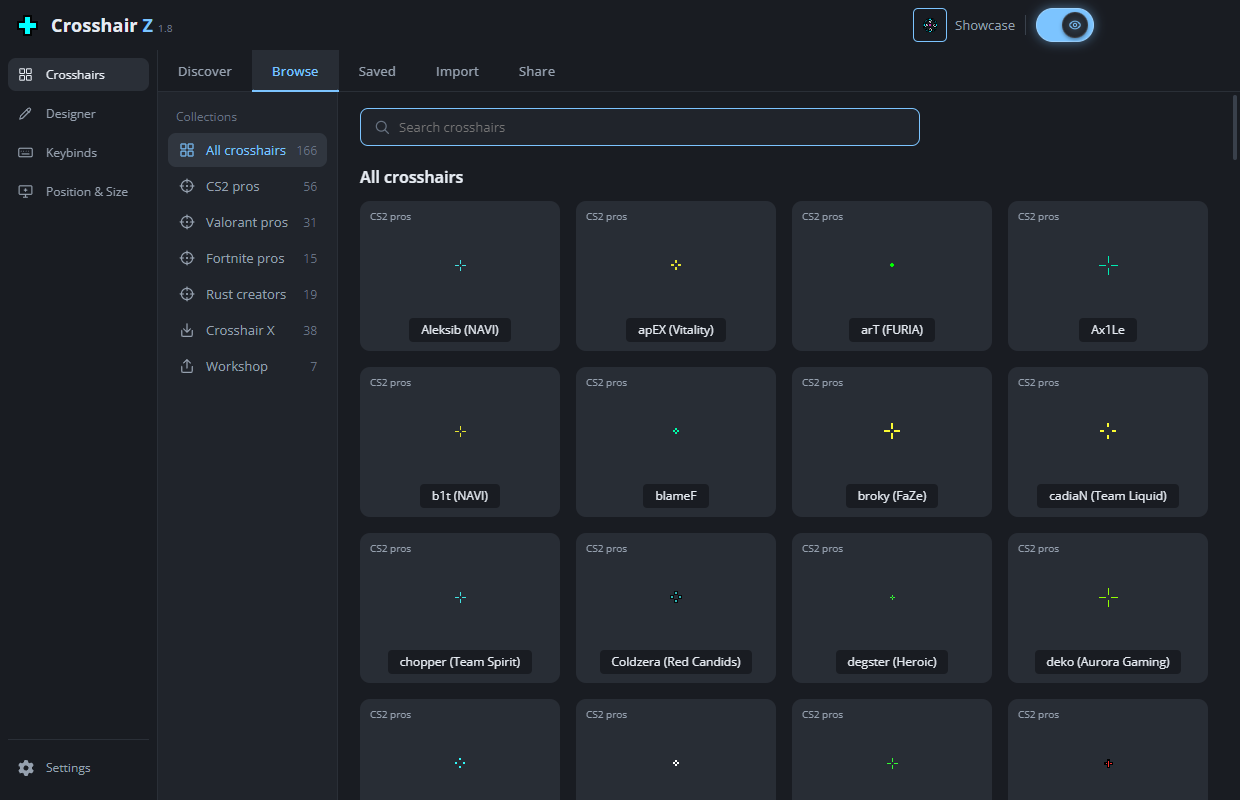
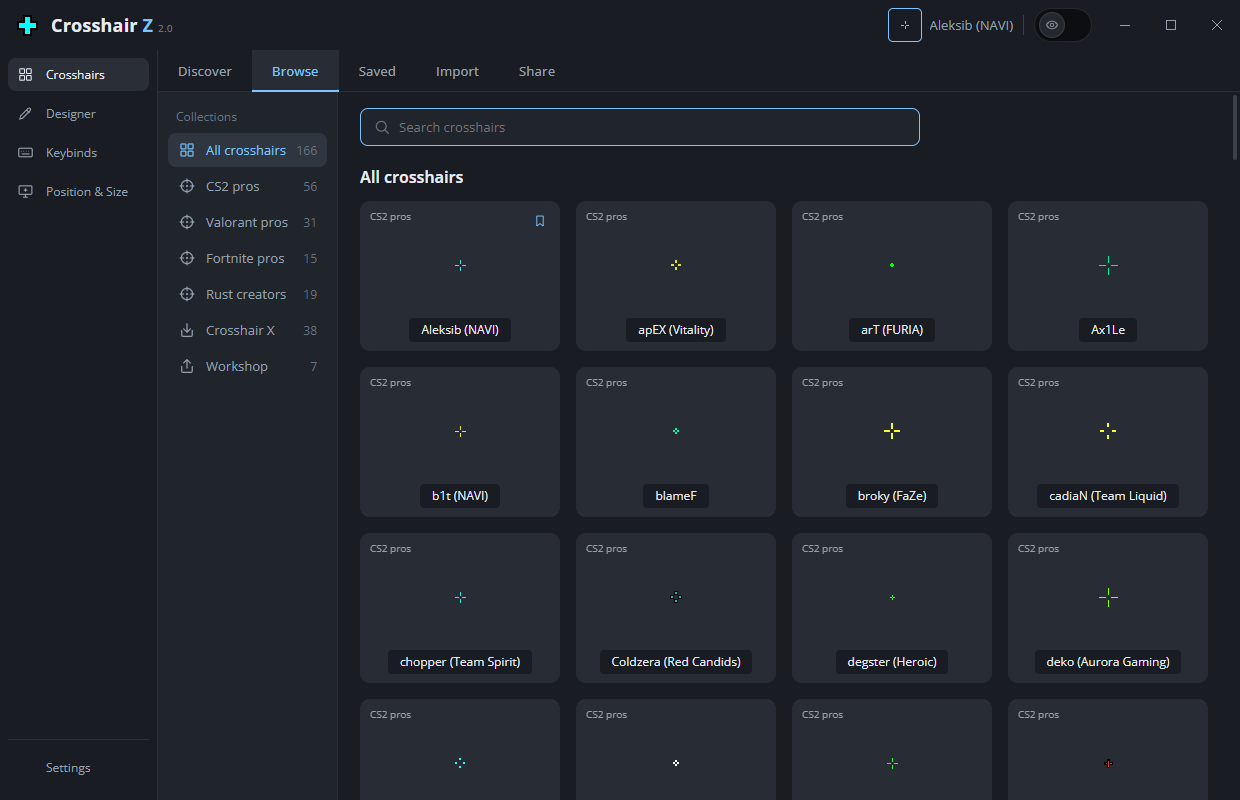
release: prepare native 2.0.0 and refresh repository presentation

diff --git a/scripts/capture-native.js b/scripts/capture-native.js
@@ -1,0 +1,58 @@
+'use strict';
+
+// Capture the real Rust/WebView2 settings UI with disposable, isolated sample data.
+const fs = require('node:fs');
+const path = require('node:path');
+const { spawn } = require('node:child_process');
+const { chromium } = require('playwright-core');
+
+const root = path.join(__dirname, '..');
+const images = path.join(root, 'docs', 'images');
+const workspace = path.join(root, '.superpowers', 'screenshots');
+const data = path.join(workspace, `data-${Date.now()}`);
+const port = 9345;
+const wait = ms => new Promise(resolve => setTimeout(resolve, ms));
+
+async function main() {
+  fs.mkdirSync(data, { recursive: true });
+  const preset = JSON.parse(fs.readFileSync(path.join(root, 'native/app/resources/first-preset.json'), 'utf8'));
+  fs.writeFileSync(path.join(data, 'config.json'), JSON.stringify({
+    version: 5, enabled: false, checkUpdates: false, activeProfileId: 'sample',
+    profiles: [{ id: 'sample', name: preset.name, hotkey: '', crosshair: preset.crosshair }],
+    hotkeys: { toggle: 'Ctrl+Alt+Shift+F20' },
+  }));
+  const app = spawn(path.join(root, 'native/app/target/release/crosshair-z.exe'), [], {
+    env: { ...process.env, CZ_USERDATA: data,
+      WEBVIEW2_ADDITIONAL_BROWSER_ARGUMENTS: `--remote-debugging-port=${port} --remote-debugging-address=127.0.0.1` },
+    windowsHide: true, stdio: 'ignore',
+  });
+  let browser;
+  try {
+    const deadline = Date.now() + 30000;
+    while (!browser && Date.now() < deadline) {
+      try { browser = await chromium.connectOverCDP(`http://127.0.0.1:${port}`); }
+      catch { await wait(300); }
+    }
+    if (!browser) throw new Error('Native WebView2 debugging endpoint did not start');
+    let page;
+    while (!page && Date.now() < deadline) {
+      page = browser.contexts().flatMap(context => context.pages()).find(p => p.url().includes('settings.html'));
+      if (!page) await wait(200);
+    }
+    if (!page) throw new Error('Native settings page not found');
+    await page.waitForFunction(() => window.czShowPage && document.querySelector('#activeName')?.textContent);
+    await page.evaluate(() => document.fonts.ready);
+    for (const [name, view] of [['discover', 'discover'], ['designer', 'designer'], ['browse', 'library'], ['toggle', 'toggle']]) {
+      await page.evaluate(view => window.czShowPage(view), view);
+      await wait(800);
+      await page.screenshot({ path: path.join(images, `${name}.png`) });
+      console.log(`Captured ${name}: ${page.url()}`);
+    }
+    await page.evaluate(() => window.czRequestClose());
+    await wait(600);
+  } finally {
+    if (browser) await browser.close().catch(() => {});
+    app.kill();
+  }
+}
+main().catch(error => { console.error(error); process.exitCode = 1; });

diff --git a/native/app/src/instance.rs b/native/app/src/instance.rs
@@ -30,7 +30,24 @@ pub struct Hello {
 }
 
 fn user_suffix() -> String {
-    std::env::var("USERNAME").unwrap_or_default().chars().filter(|c| c.is_ascii_alphanumeric()).collect()
+    let username = std::env::var("USERNAME").unwrap_or_default();
+    let isolated = std::env::var("CZ_USERDATA").ok();
+    let suffix = instance_suffix(&username, isolated.as_deref());
+    // Unit-test pipe listeners must never exchange handover messages with the real app.
+    if cfg!(test) {
+        format!("{suffix}.test.{}", std::process::id())
+    } else {
+        suffix
+    }
+}
+
+fn instance_suffix(username: &str, isolated_dir: Option<&str>) -> String {
+    use sha2::{Digest, Sha256};
+    let user: String = username.chars().filter(|c| c.is_ascii_alphanumeric()).collect();
+    match isolated_dir.filter(|p| !p.is_empty()) {
+        Some(dir) => format!("{user}.isolated.{:x}", Sha256::digest(dir.as_bytes())),
+        None => user,
+    }
 }
 
 fn mutex_name() -> String {
@@ -175,6 +192,17 @@ pub fn own_hello() -> Hello {
 mod tests {
     use super::*;
     use std::sync::mpsc;
+
+    #[test]
+    fn isolated_data_directories_have_separate_instance_endpoints() {
+        let normal = instance_suffix("User", None);
+        let first = instance_suffix("User", Some("C:/isolated-a"));
+        let second = instance_suffix("User", Some("C:/isolated-b"));
+        assert_eq!(normal, "User");
+        assert_ne!(normal, first);
+        assert_ne!(first, second);
+        assert_eq!(first, instance_suffix("User", Some("C:/isolated-a")));
+    }
 
     #[test]
     fn hello_and_reply_over_pipe() {

diff --git a/README.md b/README.md
@@ -1,5 +1,5 @@
 <p align="center">
-  <img src="docs/images/banner.png" alt="Crosshair Z — lightweight crosshair overlay for Windows games" width="100%">
+  <img src="docs/images/banner.svg" alt="Crosshair Z 2.0 — native Rust overlay for Windows" width="100%">
 </p>
 
 <p align="center">
@@ -13,11 +13,10 @@
 
 ## Download
 
-**Native Rust beta:** [2.0.0-beta.1](https://github.com/Nn1ff/crosshair-z/releases/tag/v2.0.0-beta.1)
-uses a native Windows overlay and WebView2 for settings. The measured tray-only footprint is
-5.2 MB of private working set; the portable exe is 3.85 MB. See the
-[native build and testing guide](native/README.md) for requirements and validation limits.
-The stable download below remains the Electron version during beta testing.
+**Version 2.0 uses Rust with a native Windows overlay.** Microsoft Edge WebView2 Runtime
+is required for settings and generating crosshairs; it is already installed on many Windows PCs.
+The settings window releases its browser processes when closed. See the
+[native build and testing guide](native/README.md) for requirements and validation coverage.
 
 1. Get **`Crosshair-Z.exe`** from the [latest release](https://github.com/Nn1ff/crosshair-z/releases/latest).
 2. Run it. You don't need to install anything.
@@ -26,6 +25,8 @@ The stable download below remains the Electron version during beta testing.
 > Windows may warn because the exe is not signed: **More info → Run anyway**.
 
 ## Screenshots
+
+Captured from the native 2.0 settings window with isolated sample data.
 
 <table>
   <tr>
@@ -72,10 +73,10 @@ The stable download below remains the Electron version during beta testing.
 | | |
 |---|---|
 | **CPU** | ~0% while idle: the overlay only redraws when something changes |
-| **RAM** | ~100 MB in game: closing the settings window frees it, only the tiny overlay keeps running |
+| **RAM** | ~5 MB private working set measured with settings closed; opening settings also starts WebView2 processes |
 | **Privacy** | No account, telemetry or ads. One optional update check against GitHub (can be turned off) |
 | **Anti-cheat** | A plain transparent window above the game: no DLL injection, no hooks, no memory reading |
-| **Footprint** | Portable exe, one native dependency (`koffi`), no background services |
+| **Footprint** | ~3.85 MB portable Rust exe; WebView2 Runtime for settings/rendering; no background services |
 
 ## Updating
 
@@ -89,10 +90,28 @@ When a new version is out, Settings shows **Update**. Crosshair Z downloads the 
 
 **Can I use my Crosshair X crosshairs?** Yes. Saved and Workshop crosshairs from your local Crosshair X data show up under **Browse → Crosshair X**.
 
+**Do I need the Edge browser?** You need Microsoft Edge WebView2 Runtime for the settings
+and designer, but you do not need to open the Edge browser. Windows may list these child
+processes as WebView2 Manager. They are part of the app's memory usage while settings are open.
+
+**Will my old settings work?** Version 2.0 reads the same config as 1.8.x. After upgrading,
+re-select your monitor if you used a secondary display: the native display IDs differ.
+
 ## Development
 
-For the Rust beta, follow [native/README.md](native/README.md). The commands below build the
-Electron version, which stays available during the beta.
+Build the current native release from the repository root:
+
+```powershell
+npm ci
+powershell -NoProfile -ExecutionPolicy Bypass -File native/app/scripts/package.ps1
+node scripts/capture-native.js  # refresh README screenshots using the native app
+```
+
+The package script runs tests, builds the Rust runtime and checks the live overlay.
+The result is `release-native/Crosshair-Z.exe`. See [native/README.md](native/README.md)
+for toolchain requirements, isolated testing and migration details.
+
+The retained Electron 1.8.x implementation can still be built separately:
 
 ```bash
 npm install
@@ -103,17 +122,20 @@ npm run build:pack  # rebuild the bundled pro crosshair pack
 ```
 
 Dev aids:
-- `CZ_CAPTURE_DIR=<dir>` renders every page hidden, saves PNGs (the README screenshots come from this) and quits
-- `CZ_USERDATA=<dir>` runs with an isolated config
+- `node scripts/capture-native.js` refreshes the screenshots from the real native settings UI
+- `CZ_USERDATA=<dir>` uses isolated config and instance endpoints, skipping system integration
+- Legacy Electron only: `CZ_CAPTURE_DIR=<dir>` captures its pages and quits
 
 <details>
 <summary>Project layout</summary>
 
 ```
-src/main/       Electron main process: overlay window, tray, hotkeys, mouse polling, updates, autostart
+native/app/     Current Rust runtime: native overlay, config, input, updater, tray and settings IPC
+src/native/     WebView2 bridge and sprite rendering/transport
 src/renderer/   Settings UI, designer, overlay renderer
 src/shared/     Crosshair engine (schema, rendering, share codes), Crosshair X/Y import, preset pack
 test/           Unit tests
+src/main/       Retained Electron 1.8.x runtime
 ```
 </details>
 

diff --git a/native/README.md b/native/README.md
@@ -1,4 +1,4 @@
-# Crosshair Z native beta
+# Crosshair Z native runtime
 
 The Rust runtime uses a native Win32 overlay. The existing JavaScript designer and
 crosshair renderer run in WebView2; the hidden sprite renderer is destroyed when idle.
@@ -6,13 +6,13 @@ Closing settings leaves the native overlay running without a browser process.
 
 ## Run
 
-Download `Crosshair-Z.exe` from the `v2.0.0-beta.1` prerelease and run it on Windows.
+Download `Crosshair-Z.exe` from the `v2.0.0` release and run it on Windows.
 Microsoft Edge WebView2 Runtime is required for settings and generating uncached crosshairs.
-This portable beta is unsigned and may trigger Windows SmartScreen.
+This portable app is unsigned and may trigger Windows SmartScreen.
 
 The native app uses the same `%APPDATA%\Crosshair Z\config.json` as version 1.8.x.
-Back up that file before testing. Starting the beta replaces a running legacy instance;
-the stable updater does not automatically offer prereleases.
+Back up that file before upgrading. Starting version 2.0 replaces a running legacy instance.
+The 1.8.x updater offers the stable 2.0 release with the same asset name.
 
 To test with separate data, set `CZ_USERDATA` to a new absolute directory before launching.
 This mode skips autostart changes, Start menu integration and legacy-process cleanup.
@@ -41,12 +41,12 @@ Golden tests compare composited sprites against Canvas references. The smoke tes
 rendering, disk-cache restart, renderer cleanup, the 15 MB RAM budget and single instance.
 One live GitHub network test is ignored by default; run it explicitly when needed.
 
-## Beta validation limits
+## Validation coverage and migration
 
 The automated checks cover one local Windows machine. Borderless games, all hotkeys and
 right-click modes, mixed DPI at 100/125/150%, and update handover from an installed 1.8.7
-remain manual acceptance checks before a stable 2.0 release.
+were not exhaustively tested in the release validation.
 Electron and native monitor identifiers differ: on first migration a saved monitor selection
 falls back to the primary display. Re-select the desired display in the native settings.
 Firing animation uses 33 pre-rendered levels, or 17 for larger sprite sets.
-Electron stays in the repository during the beta.
+Electron 1.8.x stays in the repository for reference and fallback builds.

diff --git a/docs/releases/2.0.0.md b/docs/releases/2.0.0.md
@@ -1,0 +1,40 @@
+# Crosshair Z 2.0.0
+
+Crosshair Z now uses Rust and a native Windows overlay. The existing designer and
+crosshair renderer use WebView2 only when needed. Closing settings releases the browser
+processes, leaving the overlay running.
+
+## Changes
+
+- Native Win32 overlay, tray, global hotkeys and mouse handling.
+- Shared designer and renderer, profiles, share codes and Crosshair X import.
+- Disk-cached crosshair sprites for fast restarts without starting WebView2.
+- Updater, autostart and instance handover compatible with the portable asset name.
+- Fixed animation freezing during relayout, stale settings-close timers and premature
+  render timeouts. Isolated test data now uses separate instance endpoints.
+- Refreshed repository banner, screenshots, build guide and dependency documentation.
+
+## Requirements and upgrade
+
+Download `Crosshair-Z.exe` from the release. Microsoft Edge WebView2 Runtime is required
+for settings and generating uncached crosshairs; the Edge browser does not need to be open.
+The portable exe is unsigned and Windows may show SmartScreen.
+
+Version 2.0 reads the existing `%APPDATA%\Crosshair Z\config.json`. Back it up before
+upgrading. Re-select your monitor if you used a secondary display, because native monitor
+IDs differ from Electron IDs. The 1.8.x updater can offer this stable release.
+
+## Verified release package
+
+- 105 Rust unit tests and 41 JavaScript tests passed.
+- Golden comparison of 54 designs at three firing levels passed (162 references).
+- Clippy with warnings denied and `git diff --check` passed.
+- All eight live smoke checks passed, including sprite rendering, renderer cleanup,
+  single instance, disk-cache restart and absence of unexpected error logs.
+- Measured idle private working set: 5.3 MB with settings closed.
+- Portable exe: 3.85 MB. Open settings also consume memory in WebView2 child processes.
+- Four screenshots were captured from the actual native settings UI and visually checked.
+
+Measurements cover the local Windows desktop. Game compatibility, every input combination,
+mixed-DPI setups and installed 1.8.7 handover were not exhaustively tested.
+Firing animation uses 33 levels, or 17 for larger sprite sets.
